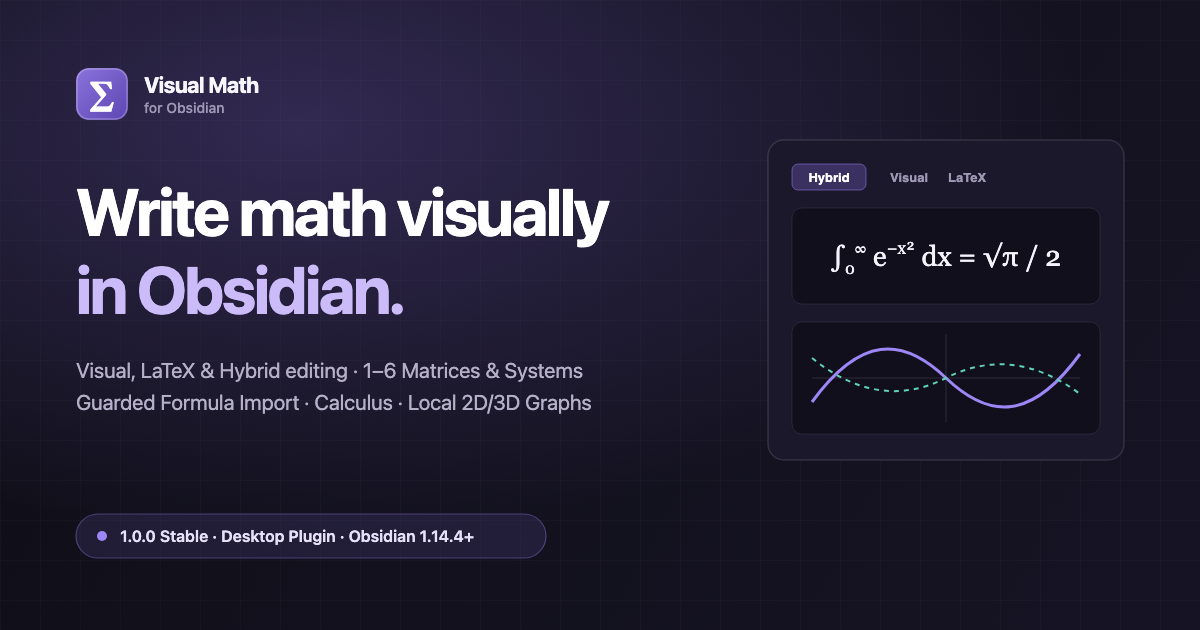
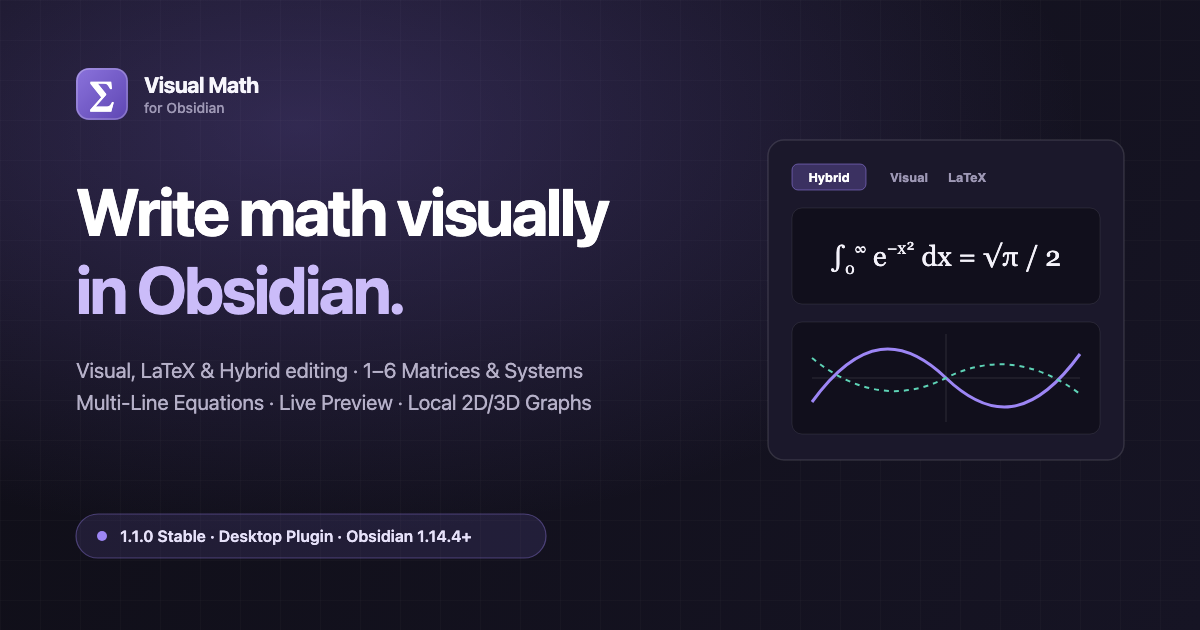
Sync website baseline to Visual Math 1.1.0 Stable

Changed region(s): [[0.0925, 0.8444, 0.4008, 0.8746], [0.0617, 0.6032, 0.3392, 0.6635]]

diff --git a/index.html b/index.html
@@ -4,12 +4,12 @@
   <meta charset="utf-8">
   <meta name="viewport" content="width=device-width,initial-scale=1">
   <title>Visual Math for Obsidian · Write math visually in Obsidian.</title>
-  <meta name="description" content="Write equations, explore graphs and build scientific notes in Obsidian. Visual, LaTeX and Hybrid editing. 1.0.0 Stable for desktop.">
+  <meta name="description" content="Write equations, explore graphs and build scientific notes in Obsidian. Visual, LaTeX and Hybrid editing. 1.1.0 Stable for desktop.">
   <meta name="robots" content="index,follow">
   <meta name="theme-color" content="#0f0e17">
   <meta property="og:type" content="website">
   <meta property="og:title" content="Visual Math for Obsidian · Write math visually in Obsidian.">
-  <meta property="og:description" content="Visual equations, matrices, calculus and local graphs inside your Obsidian notes. 1.0.0 Stable.">
+  <meta property="og:description" content="Visual equations, matrices, calculus and local graphs inside your Obsidian notes. 1.1.0 Stable.">
   <meta property="og:image" content="https://oranipost.github.io/visual-math/assets/share.png">
   <meta property="og:image:width" content="1200">
   <meta property="og:image:height" content="630">
@@ -44,7 +44,7 @@
   <main id="main" tabindex="-1">
     <section class="hero wrap" aria-labelledby="hero-title">
       <div class="hero-copy">
-        <a class="release-pill" href="https://github.com/oranipost/visual-math-editor/releases/tag/1.0.0"><span class="status-dot" aria-hidden="true"></span>1.0.0 · Stable Release <span aria-hidden="true">↗</span></a>
+        <a class="release-pill" href="https://github.com/oranipost/visual-math-editor/releases/tag/1.1.0"><span class="status-dot" aria-hidden="true"></span>1.1.0 · Stable Release <span aria-hidden="true">↗</span></a>
         <h1 id="hero-title">Write math visually in Obsidian.</h1>
         <p class="hero-description">Write equations with visual boxes, raw LaTeX, or both side by side. Build matrices, equation systems, multi-line formulas, and local 2D/3D graphs directly inside your Obsidian notes.</p>
         <div class="actions">
@@ -58,7 +58,7 @@
           <img src="assets/vme-1.1-hybrid-multiline.png" width="1600" height="1834" fetchpriority="high" alt="Real Visual Math 1.1.0 interface screenshot: Hybrid mode editor with compact category pills, New line button, LaTeX source, and rendered two-line definite integral.">
           <span class="expand-label">View full screenshot <span aria-hidden="true">↗</span></span>
         </a>
-        <figcaption class="window-caption">Real plugin capture · <strong>v1.1.0 interface preview</strong> · Hybrid multi-line editor with compact category pills and <code>↵ New line</code></figcaption>
+        <figcaption class="window-caption">Real plugin capture · <strong>v1.1.0 Stable</strong> · Hybrid multi-line editor with compact category pills and <code>↵ New line</code></figcaption>
       </figure>
     </section>
 
@@ -75,12 +75,12 @@
       <div class="wrap">
         <div class="section-intro">
           <div>
-            <p class="eyebrow">Capabilities · 1.0.0 Stable</p>
+            <p class="eyebrow">Capabilities · 1.1.0 Stable</p>
             <h2 id="features-title">Built for mathematical and scientific notes.</h2>
           </div>
           <p>From fractions, matrices, and multi-line formulas to local 2D/3D plots, calculus, and chemistry or physics notation.</p>
         </div>
-        <div class="bento-grid"><article class="feature-card bento-span-2 bento-featured"><div class="bento-top"><span class="feature-icon" aria-hidden="true">∑</span><span class="bento-tag">Visual · LaTeX · Hybrid</span></div><h3>Visual, LaTeX and Hybrid equation editing</h3><p>Create and reopen inline or display formulas with synchronized Visual, LaTeX, and Hybrid views, including fractions, roots, scripts, multi-line formulas, integrals, and sums.</p><div class="bento-preview preview-modes" aria-hidden="true"><div class="preview-tabs"><span class="active">Hybrid</span><span>Visual</span><span>LaTeX</span></div><div class="preview-split"><div class="math-serif">∫<sub>0</sub><sup>∞</sup> e<sup>−x²</sup> dx = <span class="frac"><span>√π</span><span>2</span></span></div><code>\int_0^\infty e^{-x^2}\,dx = \frac{\sqrt{\pi}}{2}</code></div></div></article><article class="feature-card bento-compact"><div class="bento-top"><span class="feature-icon" aria-hidden="true">⟨⟩</span><span class="bento-tag">Up to 120,000 chars</span></div><h3>Guarded single-equation import</h3><p>Import large single-equation LaTeX expressions up to 120,000 characters, inspect candidate structure, and save clean source with one-wrapper protection.</p><div class="bento-preview preview-code" aria-hidden="true"><code>\begin{aligned} ... \end{aligned}</code><span class="guard-pill">Single-formula guard</span></div></article><article class="feature-card bento-compact"><div class="bento-top"><span class="feature-icon" aria-hidden="true">△</span><span class="bento-tag">7 Models · 3 Spatial Scenes</span></div><h3>Geometry models and basic spatial relations</h3><p>Explore seven interactive geometry models and three spatial scenes (two planes, line–plane, and sphere–plane), saving dimensions, rotation, and zoom in vme-plot blocks.</p><div class="bento-preview preview-math" aria-hidden="true"><span class="math-serif">△ ABC · ◯ r · ℓ₁ ∥ ℓ₂ · ℓ₁ ⊥ ℓ₂ · ∠α ≅ ∠β</span></div></article><article class="feature-card bento-span-2 bento-featured"><div class="bento-top"><span class="feature-icon" aria-hidden="true">⌁</span><span class="bento-tag">2D · Polar · Complex · 3D XYZ</span></div><h3>Function, polar, complex-plane and XYZ graphs</h3><p>Plot explicit 2D functions y = f(x), polar curves r(θ), complex-plane points, and 3D XYZ surface wireframes locally inside your notes.</p><div class="bento-preview preview-graph" aria-hidden="true"><svg viewBox="0 0 320 68" fill="none"><line x1="12" y1="34" x2="308" y2="34" stroke="rgba(255,255,255,0.14)" stroke-width="1"/><line x1="160" y1="6" x2="160" y2="62" stroke="rgba(255,255,255,0.14)" stroke-width="1"/><path d="M12 50 C 60 8, 110 8, 160 34 C 210 60, 260 60, 308 18" stroke="#9d86f5" stroke-width="2.2" fill="none"/><path d="M12 22 Q 86 58, 160 34 T 308 46" stroke="#5ed3b6" stroke-width="1.6" stroke-dasharray="4 4" fill="none"/></svg><div class="preview-chips"><span>y = f(x)</span><span>r(θ)</span><span>a + bi</span><span>z = f(x, y)</span></div></div></article><article class="feature-card bento-span-2 bento-featured"><div class="bento-top"><span class="feature-icon" aria-hidden="true">⌈⌉</span><span class="bento-tag">1–6×1–6 Grid · Det & Inverse</span></div><h3>Visual matrices and equation systems</h3><p>Build 1–6 row and column matrices (parentheses, brackets, determinants, norms) and 2–6 equation systems, with numerical determinant and inverse helpers for 2×2–6×6 square matrices.</p><div class="bento-preview preview-matrix" aria-hidden="true"><div class="math-matrix"><span class="bracket">[</span><div class="cells"><span>a<sub>11</sub></span><span>a<sub>12</sub></span><span>a<sub>21</sub></span><span>a<sub>22</sub></span></div><span class="bracket">]</span></div><div class="math-system"><span class="brace">{</span><div class="eqs"><span>2x + y = 5</span><span>x − y = 1</span></div></div><span class="guard-pill">det(A) · A⁻¹ (2×2–6×6)</span></div></article><article class="feature-card bento-compact"><div class="bento-top"><span class="feature-icon" aria-hidden="true">∈</span><span class="bento-tag">9 Templates · 19 Set & Seq Tools</span></div><h3>Advanced notation, sets and sequences</h3><p>Insert nine higher-math templates (limits, partial and multiple integrals, products, piecewise, vectors, binomials) and 19 set, logic, and sequence tools.</p><div class="bento-preview preview-math" aria-hidden="true"><span class="math-serif">∑<sub>n=1</sub><sup>∞</sup> a<sub>n</sub> · A ∪ B ⊆ ℝ · ∀x ∈ Ω</span></div></article><article class="feature-card bento-compact"><div class="bento-top"><span class="feature-icon" aria-hidden="true">∫</span><span class="bento-tag">Numerical Evaluation</span></div><h3>Numerical calculus views</h3><p>Evaluate numerical derivatives, tangent lines, and definite integrals for supported real functions over finite, continuous intervals.</p><div class="bento-preview preview-math" aria-hidden="true"><span class="math-serif">f′(x₀) · ∫<sub>a</sub><sup>b</sup> f(x) dx · lim<sub>x→x₀</sub></span></div></article><article class="feature-card bento-compact"><div class="bento-top"><span class="feature-icon" aria-hidden="true">H₂</span><span class="bento-tag">12 Chemistry · 24 Physics</span></div><h3>Chemistry and physics writing tools</h3><p>Write chemical equations, reversible reactions, isotopes, and 24 physics templates across mechanics, electromagnetism, relativity, and quantum notation.</p><div class="bento-preview preview-math" aria-hidden="true"><span class="math-serif">2H₂ + O₂ → 2H₂O · Ĥ|ψ⟩ = E|ψ⟩</span></div></article><article class="feature-card bento-compact"><div class="bento-top"><span class="feature-icon" aria-hidden="true">⇄</span><span class="bento-tag">118 Elements · SI Units</span></div><h3>Units and periodic table</h3><p>Browse the built-in 118-element periodic table and convert common SI and engineering units without leaving your note.</p><div class="bento-preview preview-math" aria-hidden="true"><span class="math-serif">6 C (12.011 u) · J ↔ eV · Pa ↔ atm</span></div></article></div>
+        <div class="bento-grid"><article class="feature-card bento-span-2 bento-featured"><div class="bento-top"><span class="feature-icon" aria-hidden="true">∑</span><span class="bento-tag">Visual · LaTeX · Hybrid · ↵ New line</span></div><h3>Visual, LaTeX and Hybrid equation editing</h3><p>Create and reopen inline or display formulas with synchronized Visual, LaTeX, and Hybrid views, in-box multi-line equations (↵ New line / Shift+Enter), fractions, roots, scripts, integrals, and sums.</p><div class="bento-preview preview-modes" aria-hidden="true"><div class="preview-tabs"><span class="active">Hybrid</span><span>Visual</span><span>LaTeX</span><span>↵ New line</span></div><div class="preview-split"><div class="math-serif">∫<sub>0</sub><sup>∞</sup> e<sup>−x²</sup> dx = <span class="frac"><span>√π</span><span>2</span></span></div><code>\displaylines{\int_0^\infty e^{-x^2}\,dx = \frac{\sqrt{\pi}}{2}}</code></div></div></article><article class="feature-card bento-compact"><div class="bento-top"><span class="feature-icon" aria-hidden="true">⟨⟩</span><span class="bento-tag">Live Preview · Up to 120,000 chars</span></div><h3>Single-equation source import</h3><p>Import large single-equation LaTeX expressions up to 120,000 characters with live preview as you type, inspect candidate structure, and save clean source with one-wrapper protection.</p><div class="bento-preview preview-code" aria-hidden="true"><code>\begin{aligned} ... \end{aligned}</code><span class="guard-pill">Live preview</span></div></article><article class="feature-card bento-compact"><div class="bento-top"><span class="feature-icon" aria-hidden="true">△</span><span class="bento-tag">7 Models · 3 Spatial Scenes</span></div><h3>Geometry models and basic spatial relations</h3><p>Explore seven interactive geometry models and three spatial scenes (two planes, line–plane, and sphere–plane), saving dimensions, rotation, and zoom in vme-plot blocks.</p><div class="bento-preview preview-math" aria-hidden="true"><span class="math-serif">△ ABC · ◯ r · ℓ₁ ∥ ℓ₂ · ℓ₁ ⊥ ℓ₂ · ∠α ≅ ∠β</span></div></article><article class="feature-card bento-span-2 bento-featured"><div class="bento-top"><span class="feature-icon" aria-hidden="true">⌁</span><span class="bento-tag">2D · Polar · Complex · 3D XYZ</span></div><h3>Function, polar, complex-plane and XYZ graphs</h3><p>Plot explicit 2D functions y = f(x), polar curves r(θ), complex-plane points, and 3D XYZ surface wireframes locally inside your notes.</p><div class="bento-preview preview-graph" aria-hidden="true"><svg viewBox="0 0 320 68" fill="none"><line x1="12" y1="34" x2="308" y2="34" stroke="rgba(255,255,255,0.14)" stroke-width="1"/><line x1="160" y1="6" x2="160" y2="62" stroke="rgba(255,255,255,0.14)" stroke-width="1"/><path d="M12 50 C 60 8, 110 8, 160 34 C 210 60, 260 60, 308 18" stroke="#9d86f5" stroke-width="2.2" fill="none"/><path d="M12 22 Q 86 58, 160 34 T 308 46" stroke="#5ed3b6" stroke-width="1.6" stroke-dasharray="4 4" fill="none"/></svg><div class="preview-chips"><span>y = f(x)</span><span>r(θ)</span><span>a + bi</span><span>z = f(x, y)</span></div></div></article><article class="feature-card bento-span-2 bento-featured"><div class="bento-top"><span class="feature-icon" aria-hidden="true">⌈⌉</span><span class="bento-tag">1–6×1–6 Grid · Live Preview</span></div><h3>Visual matrices and equation systems</h3><p>Build 1–6 row and column matrices (parentheses, brackets, determinants, norms) and 2–6 equation systems with live preview as you type, plus numerical determinant and inverse helpers for 2×2–6×6 square matrices.</p><div class="bento-preview preview-matrix" aria-hidden="true"><div class="math-matrix"><span class="bracket">[</span><div class="cells"><span>a<sub>11</sub></span><span>a<sub>12</sub></span><span>a<sub>21</sub></span><span>a<sub>22</sub></span></div><span class="bracket">]</span></div><div class="math-system"><span class="brace">{</span><div class="eqs"><span>2x + y = 5</span><span>x − y = 1</span></div></div><span class="guard-pill">Live preview · det(A) · A⁻¹</span></div></article><article class="feature-card bento-compact"><div class="bento-top"><span class="feature-icon" aria-hidden="true">∈</span><span class="bento-tag">Compact Pill Bar · 19 Set & Seq Tools</span></div><h3>Advanced notation, sets and sequences</h3><p>Open nine higher-math templates (limits, partial and multiple integrals, products, piecewise, vectors, binomials) and 19 set, logic, and sequence tools from a compact single-row pill bar.</p><div class="bento-preview preview-math" aria-hidden="true"><span class="math-serif">∑<sub>n=1</sub><sup>∞</sup> a<sub>n</sub> · A ∪ B ⊆ ℝ · ∀x ∈ Ω</span></div></article><article class="feature-card bento-compact"><div class="bento-top"><span class="feature-icon" aria-hidden="true">∫</span><span class="bento-tag">Numerical Evaluation</span></div><h3>Numerical calculus views</h3><p>Evaluate numerical derivatives, tangent lines, and definite integrals for supported real functions over finite, continuous intervals.</p><div class="bento-preview preview-math" aria-hidden="true"><span class="math-serif">f′(x₀) · ∫<sub>a</sub><sup>b</sup> f(x) dx · lim<sub>x→x₀</sub></span></div></article><article class="feature-card bento-compact"><div class="bento-top"><span class="feature-icon" aria-hidden="true">H₂</span><span class="bento-tag">12 Chemistry · 24 Physics</span></div><h3>Chemistry and physics writing tools</h3><p>Write chemical equations, reversible reactions, isotopes, and 24 physics templates across mechanics, electromagnetism, relativity, and quantum notation.</p><div class="bento-preview preview-math" aria-hidden="true"><span class="math-serif">2H₂ + O₂ → 2H₂O · Ĥ|ψ⟩ = E|ψ⟩</span></div></article><article class="feature-card bento-compact"><div class="bento-top"><span class="feature-icon" aria-hidden="true">⇄</span><span class="bento-tag">118 Elements · SI Units</span></div><h3>Units and periodic table</h3><p>Browse the built-in 118-element periodic table and convert common SI and engineering units without leaving your note.</p><div class="bento-preview preview-math" aria-hidden="true"><span class="math-serif">6 C (12.011 u) · J ↔ eV · Pa ↔ atm</span></div></article></div>
         <div class="interface-showcase" aria-label="Visual Math interface gallery">
           <figure class="window-frame showcase-card">
             <a class="screenshot-link" href="assets/vme-1.1-matrix-system.png" aria-label="Open full Matrix Builder and Equation System screenshot">
@@ -112,7 +112,7 @@
       </div>
     </section>
 
-    <section id="demo" class="section wrap demo-section" aria-labelledby="demo-title"><div class="section-intro"><div><p class="eyebrow">Overview</p><h2 id="demo-title">29-second overview.</h2></div><p>A quick look at visual formula editing, 2D function plotting, 3D surface wireframes, and plugin setup in Obsidian. Want full walkthroughs? Visit our official YouTube channel <a class="inline-channel-link" href="https://www.youtube.com/@VisualMathForObsidian">@VisualMathForObsidian</a>.</p></div><figure class="promo-figure window-frame window-frame-dark"><video controls muted playsinline preload="none" width="1920" height="1080" poster="assets/visual-math-0.8.2-promo-poster.png" tabindex="0" aria-label="Visual Math promotional video (Recorded in v0.8.2)" aria-describedby="demo-summary"><source src="assets/visual-math-0.8.2-promo-v5.mp4" type="video/mp4"><p>Your browser cannot play this video. <a href="https://www.youtube.com/watch?v=427skTbfpyw">Watch the overview on YouTube</a>.</p></video><figcaption class="promo-caption"><p id="demo-summary">Real Obsidian capture · <strong>Recorded in v0.8.2</strong> (Current release: 1.0.0 Stable) · Visual formula editing, a 2D function graph, a 3D XYZ wireframe, and installation in Community plugins (29s, V5, optional background music). <a href="#tutorials">Explore the step-by-step tutorials ↓</a></p><a class="inline-link" href="https://www.youtube.com/watch?v=427skTbfpyw">Watch on YouTube <span aria-hidden="true">↗</span></a></figcaption></figure></section>
+    <section id="demo" class="section wrap demo-section" aria-labelledby="demo-title"><div class="section-intro"><div><p class="eyebrow">Overview</p><h2 id="demo-title">29-second overview.</h2></div><p>A quick look at visual formula editing, 2D function plotting, 3D surface wireframes, and plugin setup in Obsidian. Want full walkthroughs? Visit our official YouTube channel <a class="inline-channel-link" href="https://www.youtube.com/@VisualMathForObsidian">@VisualMathForObsidian</a>.</p></div><figure class="promo-figure window-frame window-frame-dark"><video controls muted playsinline preload="none" width="1920" height="1080" poster="assets/visual-math-0.8.2-promo-poster.png" tabindex="0" aria-label="Visual Math promotional video (Recorded in v0.8.2)" aria-describedby="demo-summary"><source src="assets/visual-math-0.8.2-promo-v5.mp4" type="video/mp4"><p>Your browser cannot play this video. <a href="https://www.youtube.com/watch?v=427skTbfpyw">Watch the overview on YouTube</a>.</p></video><figcaption class="promo-caption"><p id="demo-summary">Real Obsidian capture · <strong>Recorded in v0.8.2</strong> (Current release: 1.1.0 Stable) · Visual formula editing, a 2D function graph, a 3D XYZ wireframe, and installation in Community plugins (29s, V5, optional background music). <a href="#tutorials">Explore the step-by-step tutorials ↓</a></p><a class="inline-link" href="https://www.youtube.com/watch?v=427skTbfpyw">Watch on YouTube <span aria-hidden="true">↗</span></a></figcaption></figure></section>
 
     <section id="workflow" class="section wrap workflow" aria-labelledby="workflow-title">
       <div class="section-intro">
@@ -128,7 +128,7 @@
             <span class="step-number">01</span>
             <div>
               <h3>Draft visually or import LaTeX source</h3>
-              <p>Build fractions, radicals, 1–6 matrices, 2–6 equation systems, multi-line formulas, sets, sequences and advanced templates with guided placeholders, or import single-equation LaTeX source.</p>
+              <p>Build fractions, radicals, 1–6 matrices, 2–6 equation systems, in-box multi-line formulas (<code>↵ New line</code>), sets, sequences and advanced templates with live preview and compact category pills, or import single-equation LaTeX source.</p>
               <div class="mode-list" aria-label="Available editing modes"><span>Visual</span><span>LaTeX</span><span>Hybrid</span></div>
             </div>
           </article>
@@ -173,7 +173,7 @@
         <div class="install-card">
           <div class="card-topline">
             <span class="tag">Recommended</span>
-            <span class="version-label">1.0.0 · Stable</span>
+            <span class="version-label">1.1.0 · Stable</span>
           </div>
           <h3>Install from Community plugins</h3>
           <ol class="install-steps"><li>Settings → Community plugins</li><li>If required, allow community plugins</li><li>Browse → search Visual Math</li><li>Select Visual Math by Oliver; verify repository oranipost/visual-math-editor</li><li>Install → Enable</li><li>Open a Markdown note → ∑</li></ol>
@@ -189,8 +189,8 @@
           </dl>
           <details class="manual-install">
             <summary>Prefer manual ZIP installation?</summary>
-            <p>Download the compiled release package <strong>visual-math-editor-1.0.0.zip</strong> (no Node.js required for ordinary use).</p>
-            <a class="inline-link" href="https://github.com/oranipost/visual-math-editor/releases/download/1.0.0/visual-math-editor-1.0.0.zip">Download visual-math-editor-1.0.0.zip <span aria-hidden="true">↓</span></a>
+            <p>Download the compiled release package <strong>visual-math-editor-1.1.0.zip</strong> (no Node.js required for ordinary use).</p>
+            <a class="inline-link" href="https://github.com/oranipost/visual-math-editor/releases/download/1.1.0/visual-math-editor-1.1.0.zip">Download visual-math-editor-1.1.0.zip <span aria-hidden="true">↓</span></a>
             <ol>
               <li>Extract the archive and copy the <code>visual-math-editor</code> folder into your vault’s <code>.obsidian/plugins/</code> directory.</li>
               <li>Ensure <code>main.js</code>, <code>manifest.json</code> and <code>styles.css</code> sit directly inside that folder, preserving the included license notices.</li>
@@ -238,21 +238,21 @@
       <div class="section-intro">
         <div>
           <p class="eyebrow">Release &amp; Roadmap</p>
-          <h2 id="roadmap-title">What’s shipping in 1.0.0 Stable and what’s next.</h2>
+          <h2 id="roadmap-title">What’s shipping in 1.1.0 Stable and what’s next.</h2>
         </div>
         <div>
           <p>Current stable capabilities and candidate themes under exploration.</p>
-          <p class="updated">Last verified: October 31, 2026</p>
+          <p class="updated">Last verified: November 10, 2026</p>
         </div>
       </div>
       <div class="roadmap-grid" id="updates"><article class="roadmap-card roadmap-released">
     <div class="roadmap-header">
-      <span class="roadmap-badge shipped"><span class="dot" aria-hidden="true"></span>Shipped · Released October 31, 2026</span>
-      <h3>Released in 1.0.0 Stable</h3>
+      <span class="roadmap-badge shipped"><span class="dot" aria-hidden="true"></span>Shipped · Released November 10, 2026</span>
+      <h3>Released in 1.1.0 Stable</h3>
     </div>
-    <p class="roadmap-lead">First stable desktop release in the official Obsidian Community plugins directory.</p>
-    <p>Brings synchronized Visual, LaTeX, and Hybrid formula editing together with single-equation source import, 1–6 matrices and 2–6 equation systems, higher-math and set/sequence notation, seven geometry models with three spatial scenes, local 2D/3D graphing, and built-in chemistry, physics, unit, and periodic-table tools (custom formula keywords from earlier betas were removed).</p>
-    <a class="inline-link" href="https://github.com/oranipost/visual-math-editor/releases/tag/1.0.0">Read the 1.0.0 release notes on GitHub <span aria-hidden="true">↗</span></a>
+    <p class="roadmap-lead">Latest stable desktop release with in-box multi-line formulas, compact category pills, and live builder previews.</p>
+    <p>Adds multi-line equations inside a single visual box (<code>↵ New line</code> / <code>Shift+Enter</code> using <code>\displaylines{...}</code>), a compact single-row pill toolbar that opens one drawer at a time, and live preview as you type across the 1–6 Matrix builder, 2–6 Equation System builder, and Single-Equation Import panel. Also resolves the 15 non-blocking TypeScript/CSS lint warnings from the 1.0.0 scan (custom formula keywords from earlier betas remain removed).</p>
+    <a class="inline-link" href="https://github.com/oranipost/visual-math-editor/releases/tag/1.1.0">Read the 1.1.0 release notes on GitHub <span aria-hidden="true">↗</span></a>
   </article>
   <article class="roadmap-card roadmap-considering">
     <div class="roadmap-header">
@@ -275,20 +275,20 @@
           </div>
           <div class="faq-list">
             <details><summary>Does Visual Math run in the browser?</summary><p>No. Visual Math is a native desktop plugin for Obsidian. This website provides documentation, real-software previews, and installation links.</p></details>
-            <details><summary>Which platforms and Obsidian versions are supported?</summary><p>Requires Obsidian 1.14.4 or later on desktop. Native release checks were verified on macOS with Obsidian 1.14.5 (targeted 1.0.0 acceptance) (and Obsidian 1.14.4 for v0.8.2 media captures). Windows and Linux have not been verified. Mobile is not supported.</p></details>
+            <details><summary>Which platforms and Obsidian versions are supported?</summary><p>Requires Obsidian 1.14.4 or later on desktop. Native release checks were verified on macOS with Obsidian 1.14.5 (and Obsidian 1.14.4 for v0.8.2 media captures). Windows and Linux have not been verified. Mobile is not supported.</p></details>
             <details><summary>Do I need an account, API key, or Node.js?</summary><p>No runtime account, API key, or Node.js installation is required for the compiled plugin. All editing, scientific reference tables, and graphing tools run locally. Network access is only needed when downloading or updating the plugin.</p></details>
             <details><summary>Does editing a saved equation automatically update an existing graph?</summary><p>Live equation/graph preview is linked only while its editor is open. Saved formula and graph are separate blocks; navigation persists only when explicitly saved. Editing a saved equation later does not automatically overwrite a previously inserted graph. After panning, zooming, or rotating a graph, click <strong>Save view</strong> or <strong>Save graph</strong> to persist the updated state.</p></details>
             <details><summary>Is Visual Math a symbolic CAS or general equation solver?</summary><p>No. Graphing and calculus views use numerical evaluation within supported domains and finite, increasing, continuous intervals. They produce numerical approximations and are not a symbolic computer algebra system or general equation solver.</p></details>
-            <details><summary>How are long LaTeX expressions and unsupported macros handled?</summary><p>In 1.0.0, guarded single-equation import accepts single formulas up to 120,000 characters (rejecting multi-equation documents, <code>$$...$$</code> blocks, and document-level preambles). Standard visual editing uses an 8,192 UTF-16 input budget and a 4,096-unit visual complexity budget; expressions exceeding the visual budget or containing custom TeX macros remain editable in source-only LaTeX mode. Custom formula keywords from earlier betas were removed in 1.0.0.</p></details>
-            <details><summary>What license does Visual Math use?</summary><p>GNU GPL version 3 only with the Obsidian linking exception. Review the <a href="https://github.com/oranipost/visual-math-editor/blob/1.0.0/LICENSING.md">full licensing terms and third-party notices</a> on GitHub.</p></details>
+            <details><summary>How are long LaTeX expressions and unsupported macros handled?</summary><p>In 1.1.0, guarded single-equation import accepts single formulas up to 120,000 characters (rejecting multi-equation documents, <code>$$...$$</code> blocks, and document-level preambles). Standard visual editing uses an 8,192 UTF-16 input budget and a 4,096-unit visual complexity budget; expressions exceeding the visual budget or containing custom TeX macros remain editable in source-only LaTeX mode. Custom formula keywords from earlier betas were removed in 1.1.0.</p></details>
+            <details><summary>What license does Visual Math use?</summary><p>GNU GPL version 3 only with the Obsidian linking exception. Review the <a href="https://github.com/oranipost/visual-math-editor/blob/1.1.0/LICENSING.md">full licensing terms and third-party notices</a> on GitHub.</p></details>
           </div>
         </div>
         <details class="technical-scope">
-          <summary>Verification, Directory Review &amp; Media Provenance (1.0.0 Stable)</summary>
+          <summary>Verification, Directory Review &amp; Media Provenance (1.1.0 Stable)</summary>
           <div class="technical-scope-grid">
             <div>
-              <h4>Community Directory Automated Scan (1.0.0)</h4>
-              <p>Status: <strong>Completed</strong> · Health: <strong>Excellent</strong> · Result: <strong>Review Satisfactory</strong> (6 passed, 15 nonblocking type/CSS maintenance warnings, 0 errors). This reflects the official automated submission scan, not manual security certification.</p>
+              <h4>Community Directory Automated Scan (1.0.0) &amp; 1.1.0 Cleanup</h4>
+              <p>Status (1.0.0 listing scan): <strong>Completed</strong> · Health: <strong>Excellent</strong> · Result: <strong>Review Satisfactory</strong> (6 passed, 15 nonblocking type/CSS maintenance warnings in 1.0.0, 0 errors; all 15 lint items resolved in 1.1.0). This reflects the official automated submission scan, not manual security certification.</p>
             </div>
             <div>
               <h4>Media Provenance &amp; Functional Boundaries</h4>
@@ -303,10 +303,10 @@
       <div class="closing-card">
         <p class="eyebrow">Ready for Obsidian Desktop</p>
         <h2>Bring visual mathematics into your vault.</h2>
-        <p class="closing-sub">Free and open source under GNU GPL version 3 only with the Obsidian linking exception · Obsidian 1.14.4+ · Desktop only · 1.0.0 Stable</p>
+        <p class="closing-sub">Free and open source under GNU GPL version 3 only with the Obsidian linking exception · Obsidian 1.14.4+ · Desktop only · 1.1.0 Stable</p>
         <div class="actions">
           <a class="button primary" href="https://community.obsidian.md/plugins/visual-math-editor">Install in Obsidian <span aria-hidden="true">↗</span></a>
-          <a class="button secondary-dark" href="https://github.com/oranipost/visual-math-editor/releases/tag/1.0.0">View 1.0.0 Release Notes <span aria-hidden="true">↗</span></a>
+          <a class="button secondary-dark" href="https://github.com/oranipost/visual-math-editor/releases/tag/1.1.0">View 1.1.0 Release Notes <span aria-hidden="true">↗</span></a>
         </div>
       </div>
     </section>
@@ -320,7 +320,7 @@
       <p>Made by Oliver. An independent community plugin for Obsidian.</p>
       <nav aria-label="Footer navigation">
         <a href="https://github.com/oranipost/visual-math-editor">GitHub <span aria-hidden="true">↗</span></a>
-        <a href="https://github.com/oranipost/visual-math-editor/releases/tag/1.0.0">Releases <span aria-hidden="true">↗</span></a>
+        <a href="https://github.com/oranipost/visual-math-editor/releases/tag/1.1.0">Releases <span aria-hidden="true">↗</span></a>
         <a href="https://www.youtube.com/@VisualMathForObsidian" aria-label="Official Visual Math YouTube channel">YouTube <span aria-hidden="true">↗</span></a>
         <a href="#faq">FAQ</a>
         <a href="https://github.com/oranipost/visual-math-editor/issues">Issues <span aria-hidden="true">↗</span></a>
